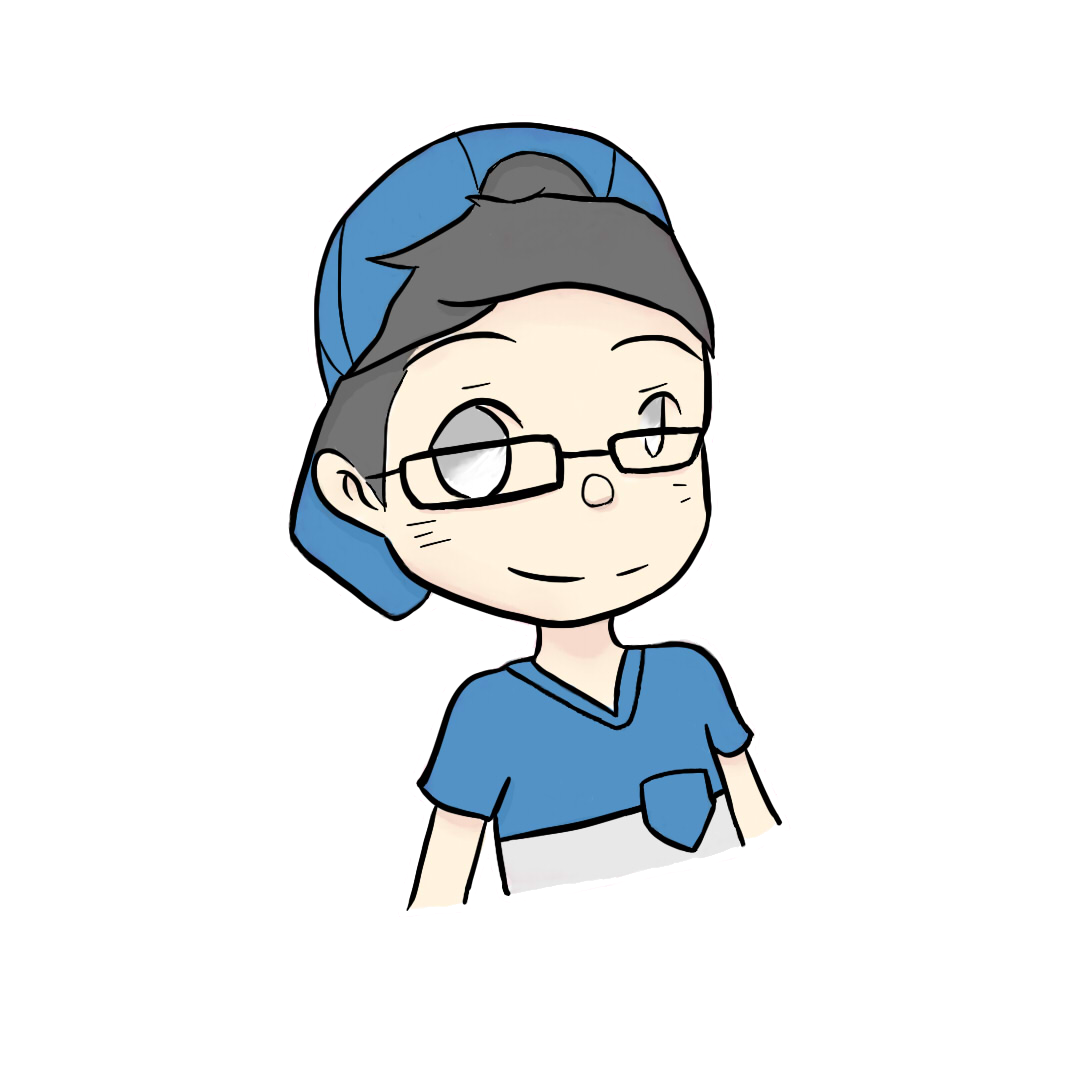
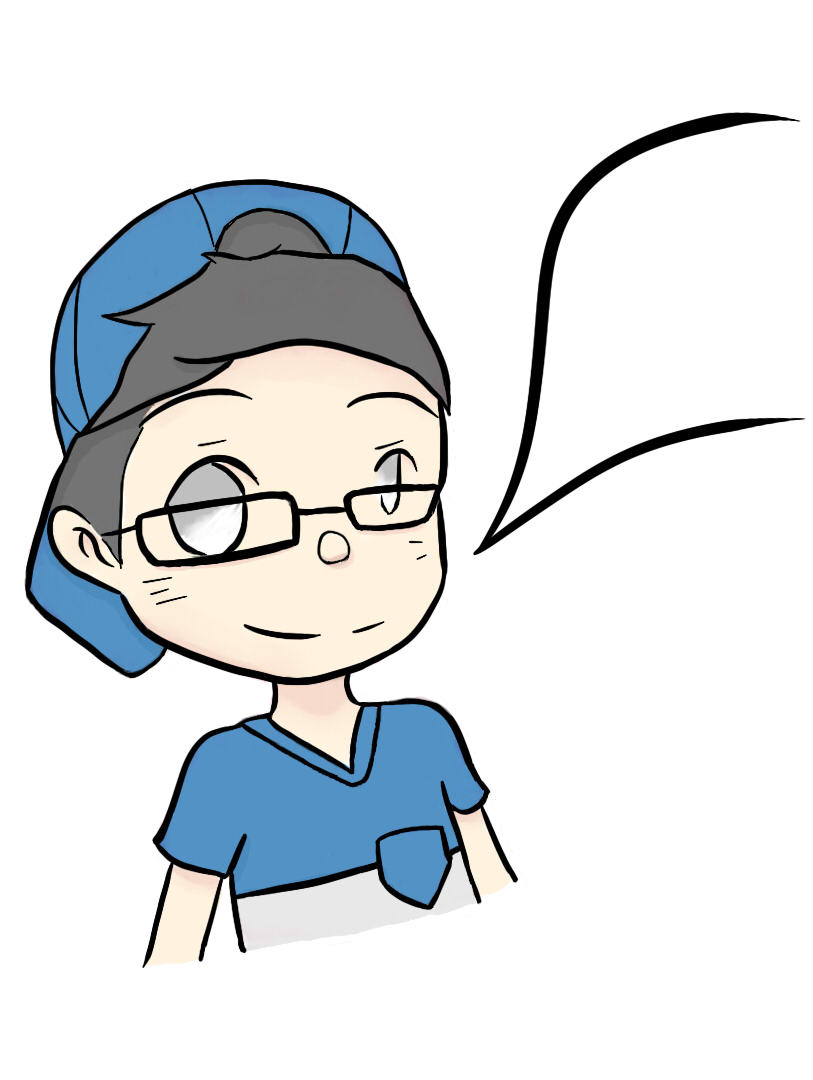
Added latest blog post indicator

diff --git a/index.html b/index.html
@@ -4,7 +4,7 @@ layout: main
 
 <div id="main-content">
     <div class="row">
-        <div class="col-xs-12 col-md-6">
+        <div class="col-xs-12 col-md-12">
             <div style="">
             <p><strong id="hi">Hi!</strong> I'm Clayton and I study <em>Computer Science</em> and <em>Statistics</em> at the University of Waterloo.</p>
             <p>
@@ -13,8 +13,11 @@ layout: main
             {% include social.html %}
             </div>
         </div>
-        <div class="col-xs-12 col-md-6">
-            {% include captains_log.html %} 
+        <div class="col-xs-12 col-md-12">
+            <img id="avatar" src="{{ base.url }}/assets/images/avatar.png">
+            {% for post in site.posts limit:1 %}
+                <p id="latest-title"><strong>Latest post:</strong><a href="{{ post.url }}">{{ post.title }}</p>
+            {% endfor %}
         </div>
     </div>
 </div>

diff --git a/assets/css/style.css b/assets/css/style.css
@@ -100,9 +100,10 @@ a {
 }
 
 #avatar {
-    height: 5em;
-    width: 5em;
-    border-radius: 50%;
+    height: 12em;
+    width: 10em;
+    max-width: 100%;
+    display: inline;
 }
 
 .blog-date {
@@ -266,6 +267,17 @@ strong {
     display: inline-block;
     vertical-align: middle;
     margin-right: 0.5rem;
+}
+
+#latest-title {
+  display: inline-flex;
+  margin-top: 5%;
+  vertical-align: top;
+}
+
+#latest-title strong {
+  vertical-align: top;
+  margin-right: 1rem;
 }
 
 @media only screen and (max-width: 1100px) {
